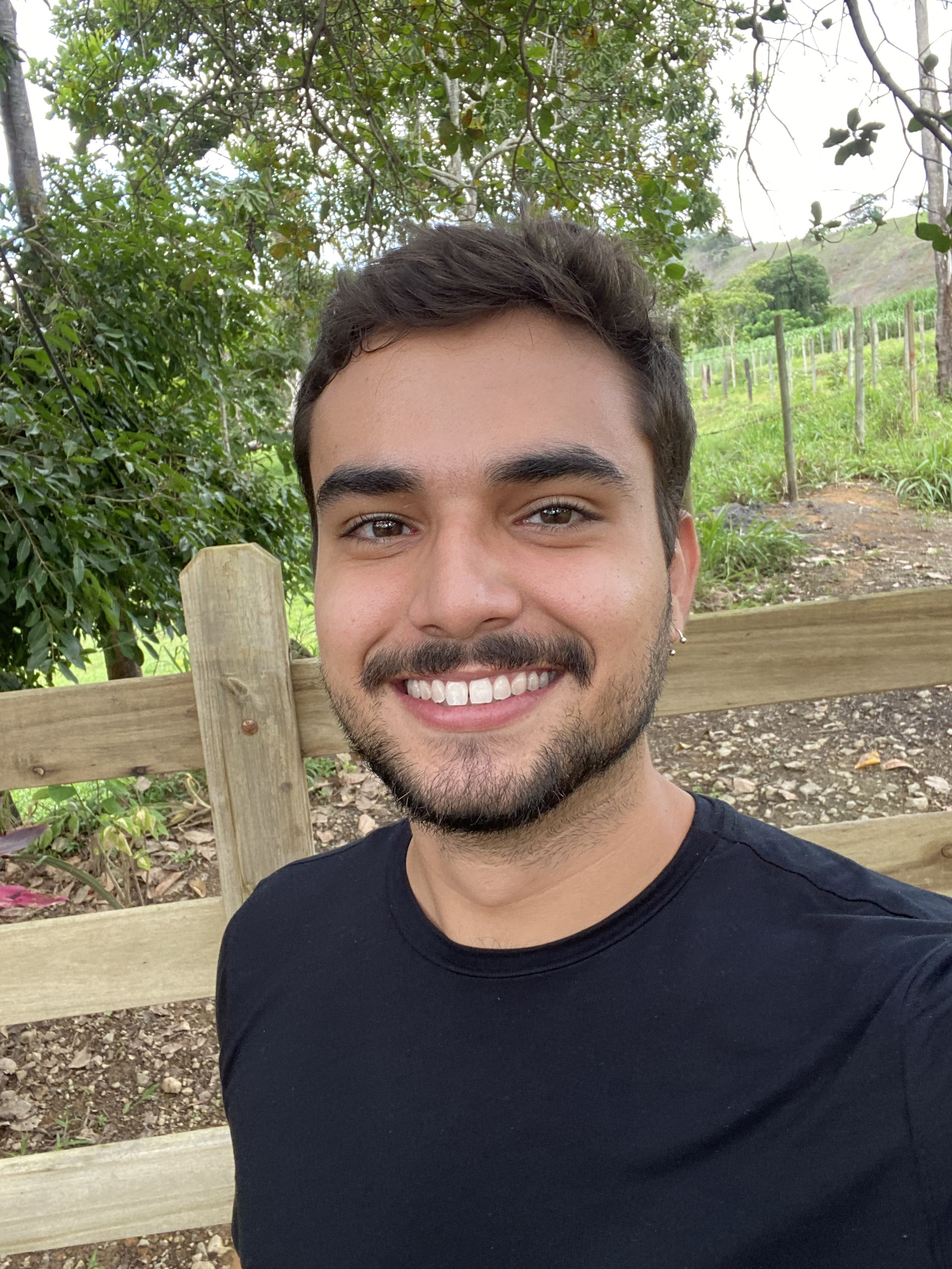
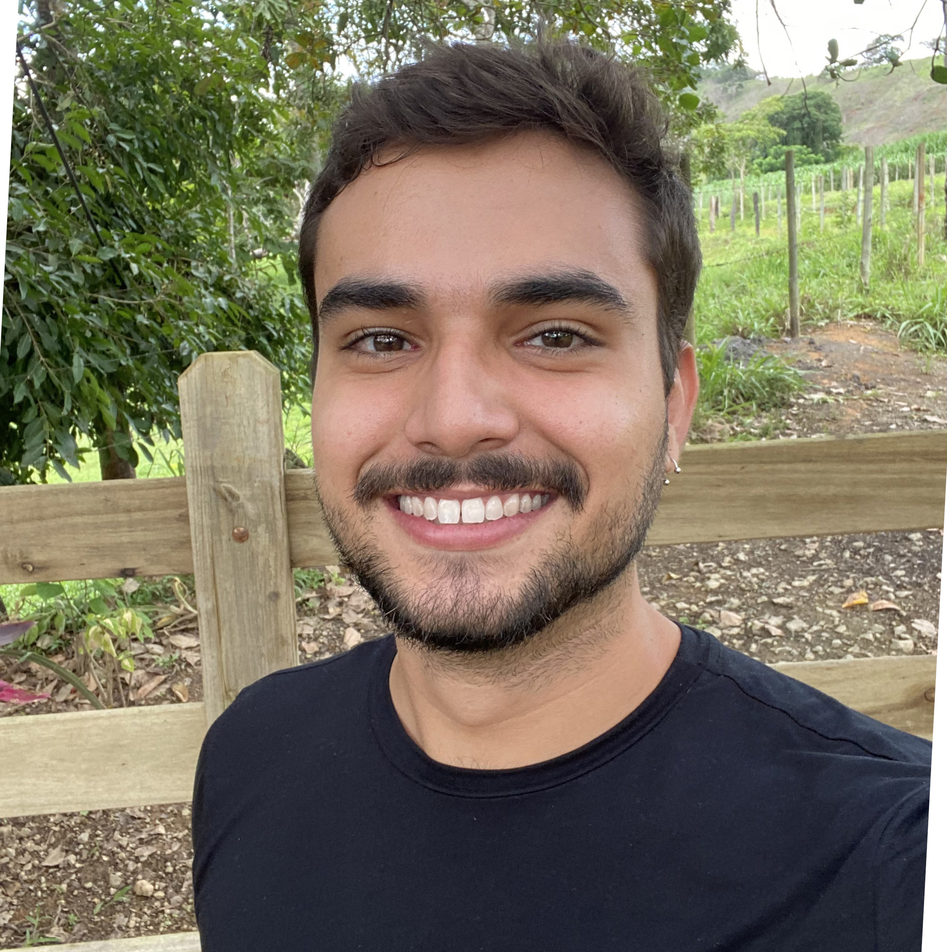
Alinha imagem ao centro

diff --git a/index.html b/index.html
@@ -1,28 +1,40 @@
 <!DOCTYPE html>
 <html lang="pt-BR">
+
 <head>
     <meta charset="UTF-8">
     <meta http-equiv="X-UA-Compatible" content="IE=edge">
     <meta name="viewport" content="width=device-width, initial-scale=1.0">
     <title>Tcharles - Apresentação pessoal</title>
 </head>
+<style>
+    .perfil-picture {
+        border-radius: 100%;
+        margin: auto;
+        display: block;
+    }
+</style>
 
 <body>
     <a href="#fotopessoal">Quem sou eu?</a> <br>
     <a href="#habilidades">Principais Habilidades</a>
     <h1>Tcharles Eduardo Vicente Souza</h1>
-    <img src="imagens/tcharles.jpg" id="fotopessoal" width="250" title="Dom Cavati-MG: um dos meus lugares favoritos. Na paz e calmaria de uma boa roça"><br>
-    <a href="https://www.linkedin.com/in/tcharles-souza" target="_blank"><img src="imagens/linkedin.png" width="25" alt="Linkedin"></a>  
-    <a href="https://github.com/tcharles-souza" target="_blank"><img src="imagens/github.png" width="25" alt="Linkedin"></a>
-<h2>Insira a descrição aqui</h2>
-<h2 id="habilidades">Habilidades</h2>
-<ul>
-    <li>Habilidades</li>
-    <li>Habilidades</li>
-    <li>Habilidades</li>
-    <li>Habilidades</li>
-    <li>Habilidades</li>
-</ul>
+    <img src="imagens/tcharles.jpg" class="perfil-picture" id="fotopessoal" width="250"
+        title="Dom Cavati-MG: um dos meus lugares favoritos. Na paz e calmaria de uma boa roça"><br>
+    <a href="https://www.linkedin.com/in/tcharles-souza" target="_blank"><img src="imagens/linkedin.png" width="25"
+            alt="Linkedin"></a>
+    <a href="https://github.com/tcharles-souza" target="_blank"><img src="imagens/github.png" width="25"
+            alt="Linkedin"></a>
+    <h2>Insira a descrição aqui</h2>
+    <h2 id="habilidades">Habilidades</h2>
+    <ul>
+        <li>Habilidades</li>
+        <li>Habilidades</li>
+        <li>Habilidades</li>
+        <li>Habilidades</li>
+        <li>Habilidades</li>
+    </ul>
 
 </body>
+
 </html>
